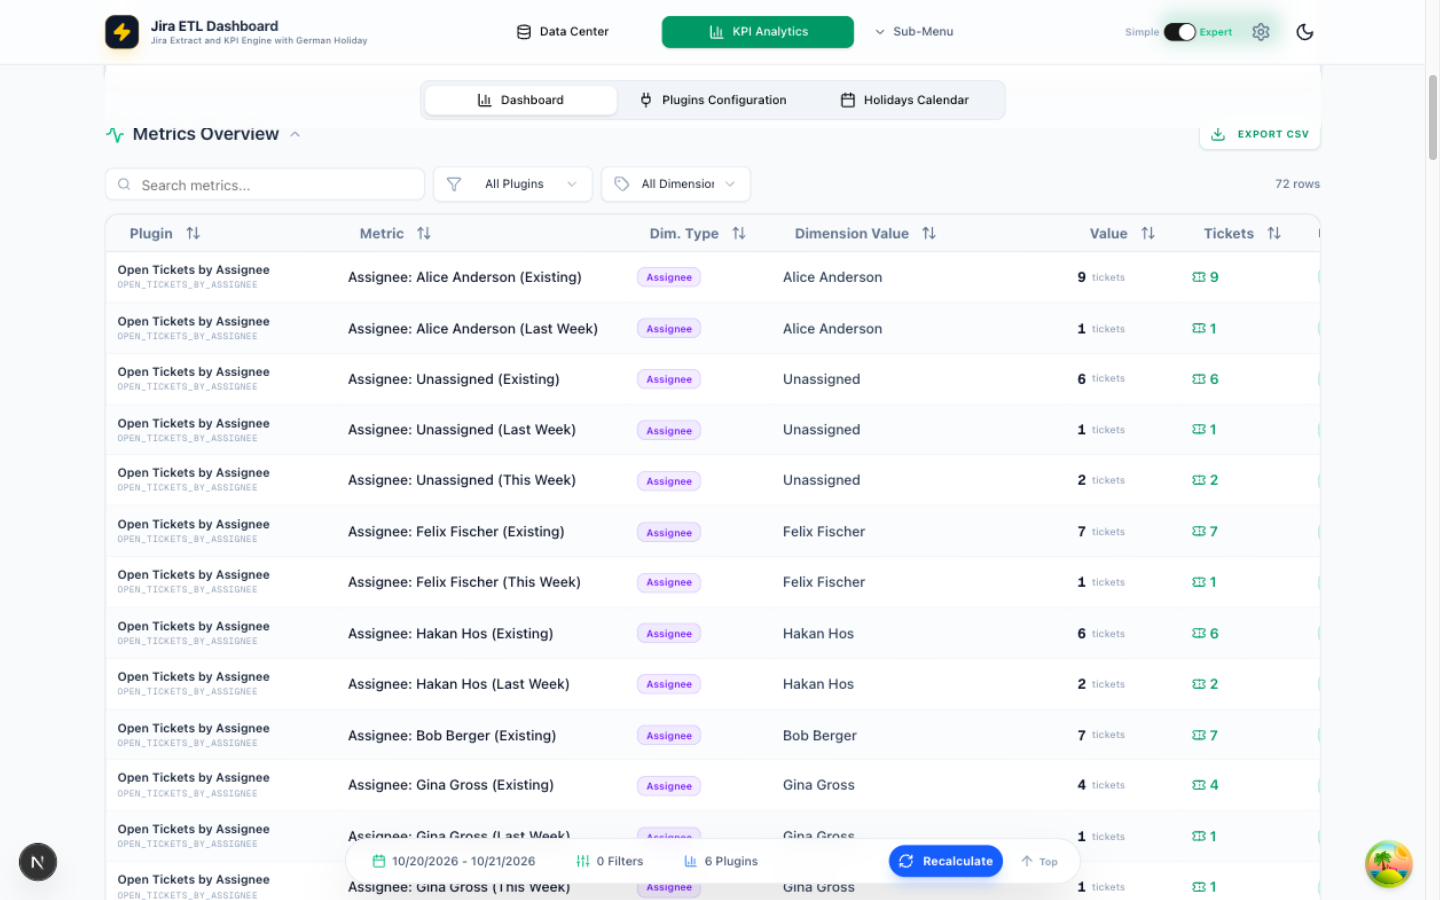
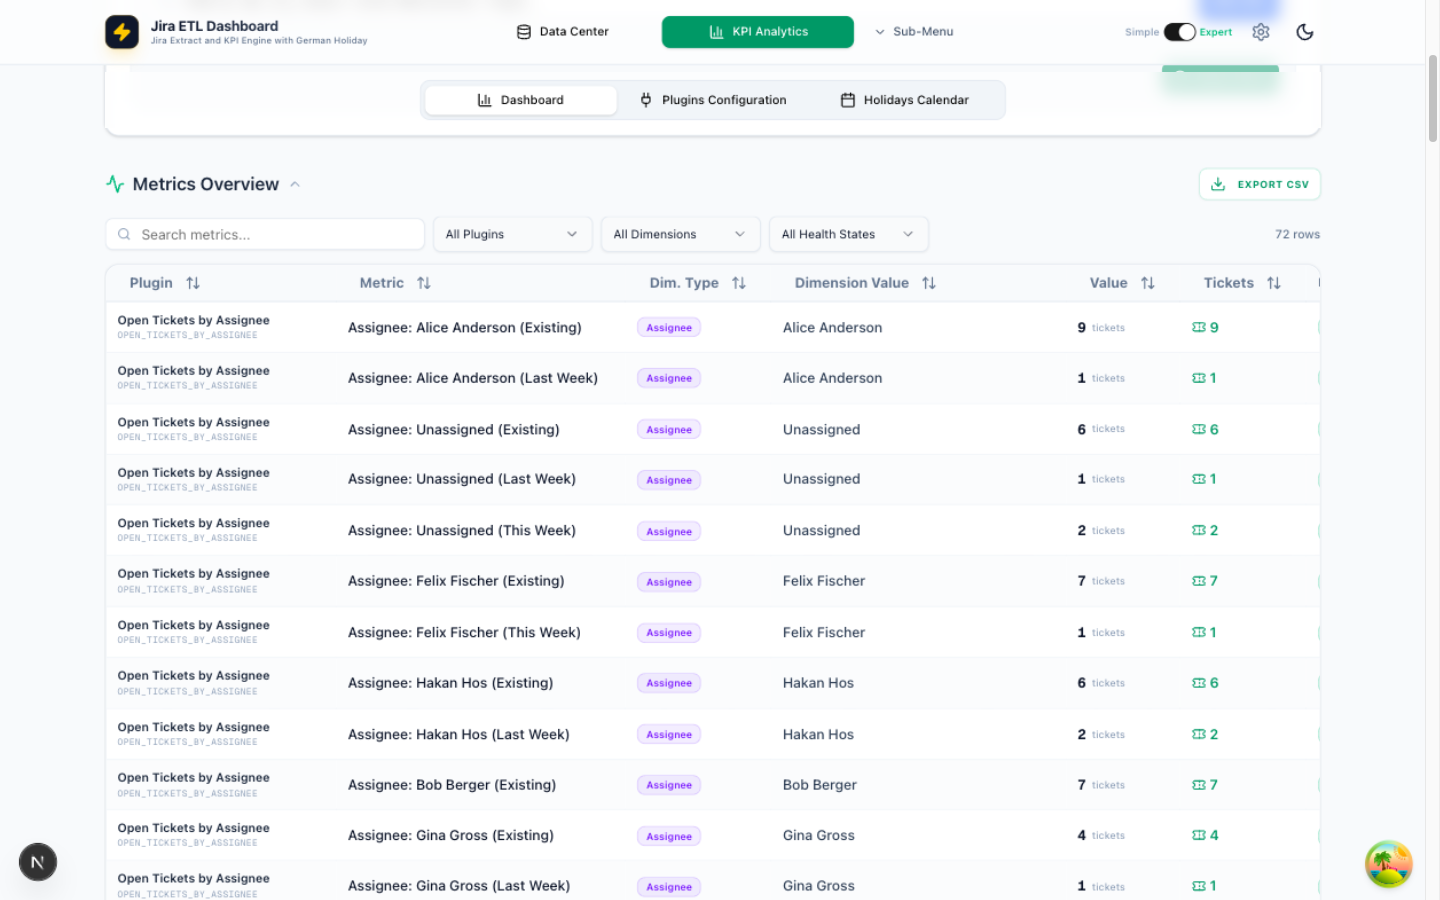
docs: multiselect metrics-table filters; refresh KPI Analytics screenshot; chore(release): v0.17.1

diff --git a/CLAUDE.md b/CLAUDE.md
@@ -52,6 +52,13 @@ The UI is one page (`src/app/page.tsx`, tabbed panels under `src/components/dash
   Expert since it needs the hidden Connections tab. `e2e/helpers.ts` seeds `expert` by default so legacy specs keep
   testing the full shell — pass `{ mode: 'simple' }` for mode-specific specs.
 
+- **Metrics Overview filters** (`KpiDataTable.tsx`): Plugins, Dimensions, and Health States
+  are multi-select `FilterMultiSelect` dropdowns (shared with the extract preview) whose
+  selections intersect with each other and with the text search. Health mirrors the Health
+  column badge — each row's status is derived from the plugin's alert thresholds at render
+  time (`settings.alerts.thresholds`), not from any field on the calculation results, so
+  test fixtures must set threshold values (not an `alertStatus` property) to control it.
+
 - `jira/extract` — core ETL: JQL pull → `EtlRun` + `TicketSnapshot`/`TicketTransition` + `MasterTicket` upserts → KPI calculation → `KpiResult` storage. The run row starts as `extracting` and is promoted to `completed` only after the load succeeds (`failed` + errorLog on crash); old-run pruning happens after success. Deletion detection is conservative: it only runs for the app-generated broad-sync JQL, never for user-provided custom JQL. The Participants field (`JIRA_PARTICIPANTS_FIELD`, default `customfield_10032`) is always added to the requested field list so the extract preview can show participant names.
 - `jira/poll` — server-side background polling scheduler (keeps credentials in `globalThis` state)
 - `jira/connections/[connectionId]` — DELETE: cascades all of a connection's data (KPI results, dashboard views, transitions, snapshots, runs, master tickets) in one transaction

diff --git a/README.md b/README.md
@@ -52,7 +52,7 @@ Manage Jira connections, storage engine configuration (SQLite/PostgreSQL), and a
 ### 🌓 Professional Dashboard UX
 - **Simple & Expert Mode** — Simple mode (default) is a single combined view: quick date selection and extraction at the top of the analytics dashboard, the analysis period automatically tracking every pulled ticket, a minimal essential plugin set, and a first-run wizard that offers Jira setup or one-click demo data when nothing is configured. Expert mode (header toggle) restores the full multi-tab experience. Settings in simple mode shows only the Configuration panel (General Settings & Rate Limiting and Webhooks collapsed by default); Connections and Storage are expert-only, and the wizard's setup action switches to Expert automatically.
 - **Saved Views / Presets** — Save named dashboard states (Dates, JQL, Filters, Layouts) to switch between different reporting contexts instantly.
-- **Interactive Metrics Table** — Toggle between a grid of cards and a high-density, sortable/filterable data table for rapid metric scanning.
+- **Interactive Metrics Table** — Toggle between a grid of cards and a high-density, sortable/filterable data table for rapid metric scanning; multi-select filters for plugins, dimension types, and health states (Healthy / Warning / Critical) intersect with free-text search.
 - **KPI Alert Thresholds** — Set custom Warning and Critical limits for any plugin; includes animated pulse alerts and hover tooltips.
 - **Keyboard Shortcuts**:
   - `R` — Recalculate Dashboard
